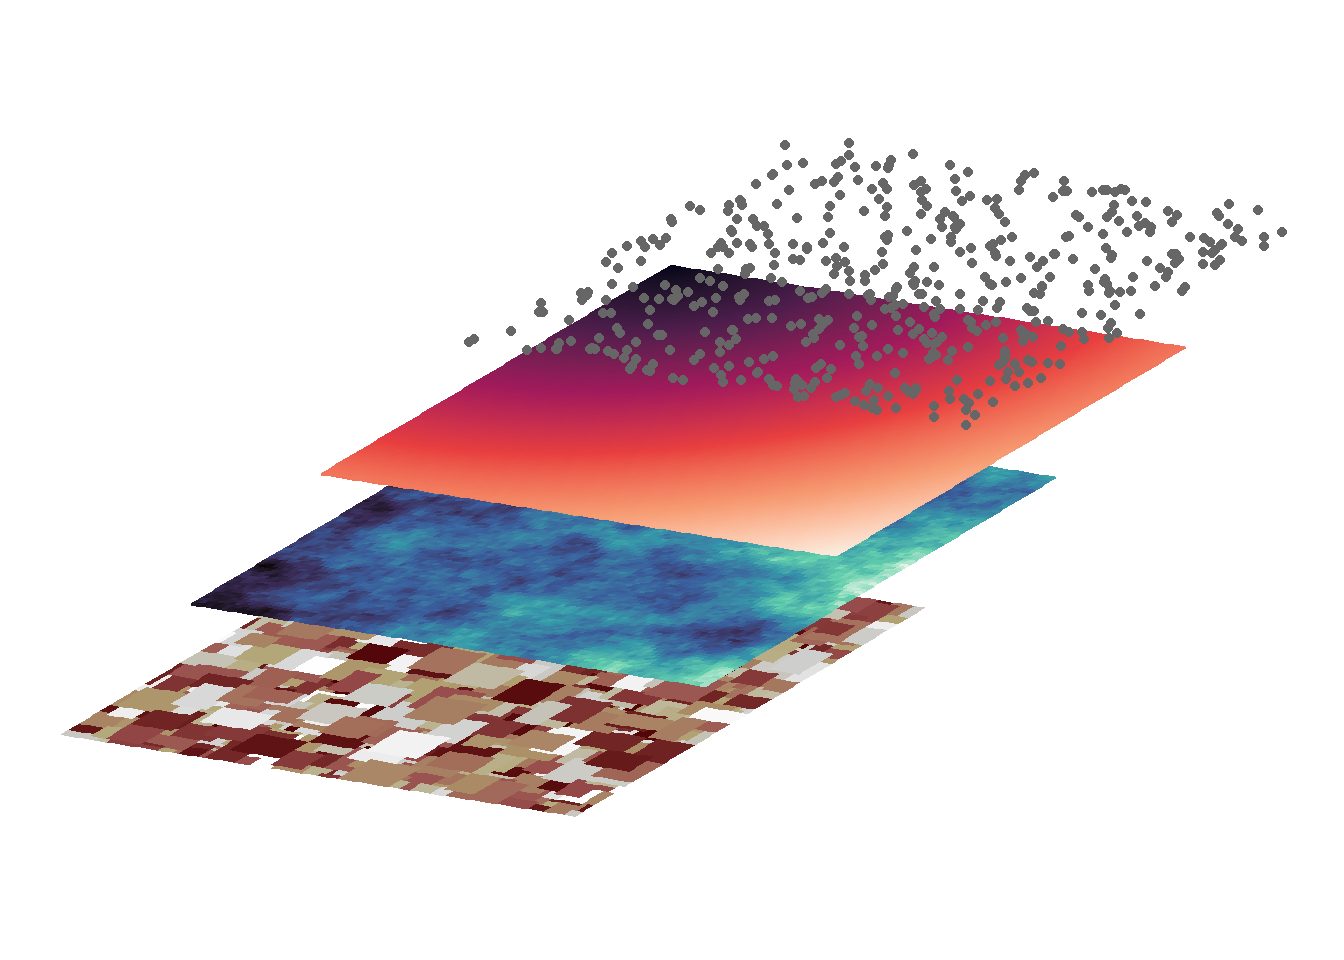
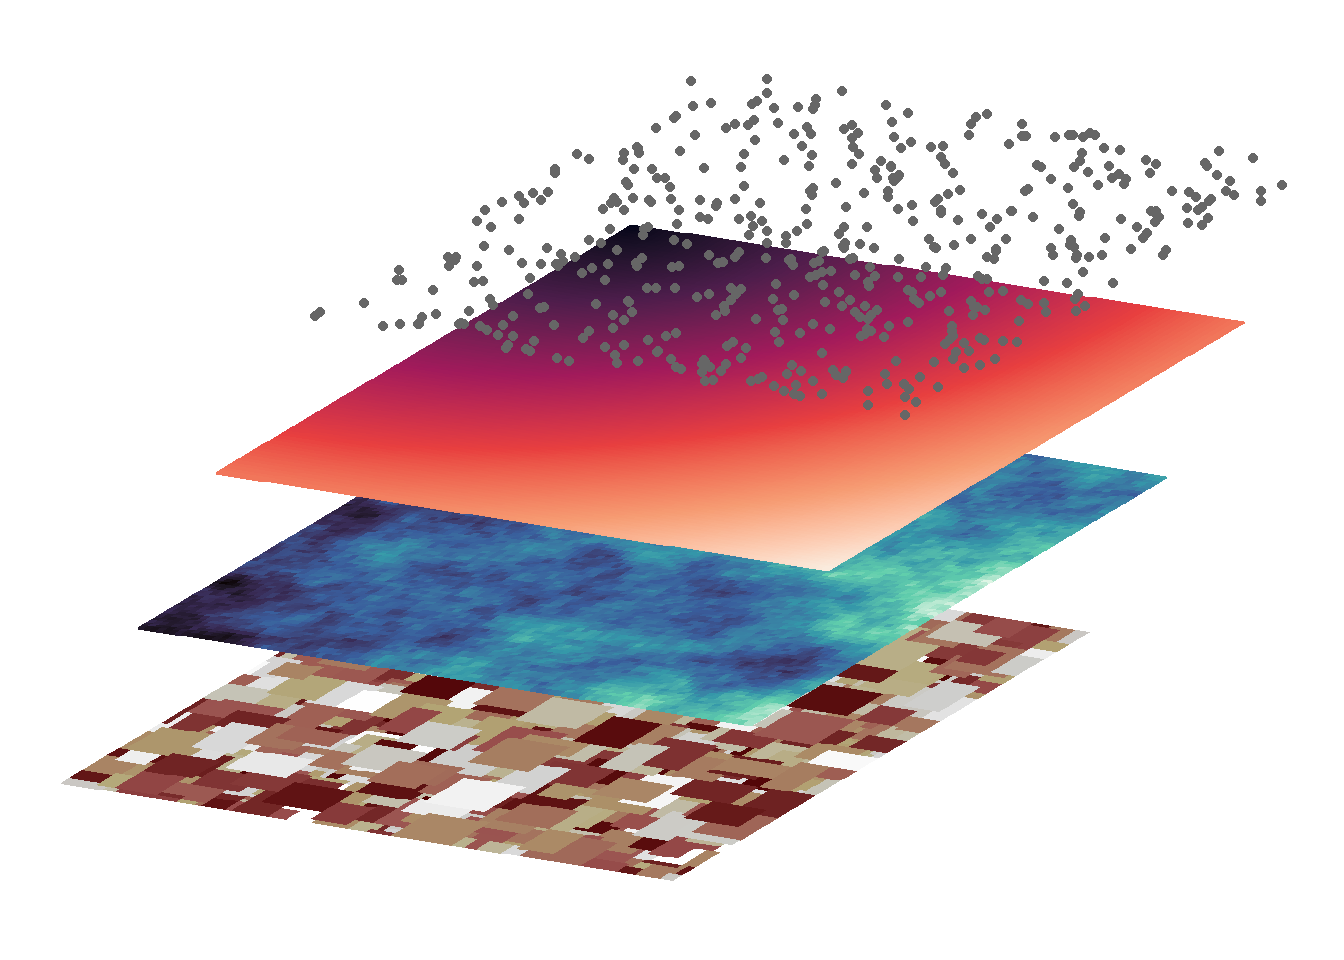
update readme

diff --git a/README.md b/README.md
@@ -44,15 +44,15 @@ library(layer)
 tilt_landscape_1 <- tilt_map(landscape_1)
 #> Lade nötiges Paket: raster
 #> Lade nötiges Paket: sp
-tilt_landscape_2 <- tilt_map(landscape_2, x_shift = 50, y_shift = 50)
-tilt_landscape_3 <- tilt_map(landscape_3, x_shift = 100, y_shift = 100)
-tilt_landscape_points <- tilt_map(landscape_points, x_shift = 150, y_shift = 150)
+tilt_landscape_2 <- tilt_map(landscape_2, x_shift = 25, y_shift = 50)
+tilt_landscape_3 <- tilt_map(landscape_3, x_shift = 50, y_shift = 100)
+tilt_landscape_points <- tilt_map(landscape_points, x_shift = 75, y_shift = 150)
 
 map_list <- list(tilt_landscape_1, tilt_landscape_2, tilt_landscape_3, tilt_landscape_points)
 
 plot_tiltedmaps(map_list, 
                 layer = c("value", "value", "value", NA),
-                palette = c("bilbao", "mako", "rocket", "turbo"),
+                palette = c("bilbao", "mako", "rocket", NA),
                 color = "grey40")
 ```
 
